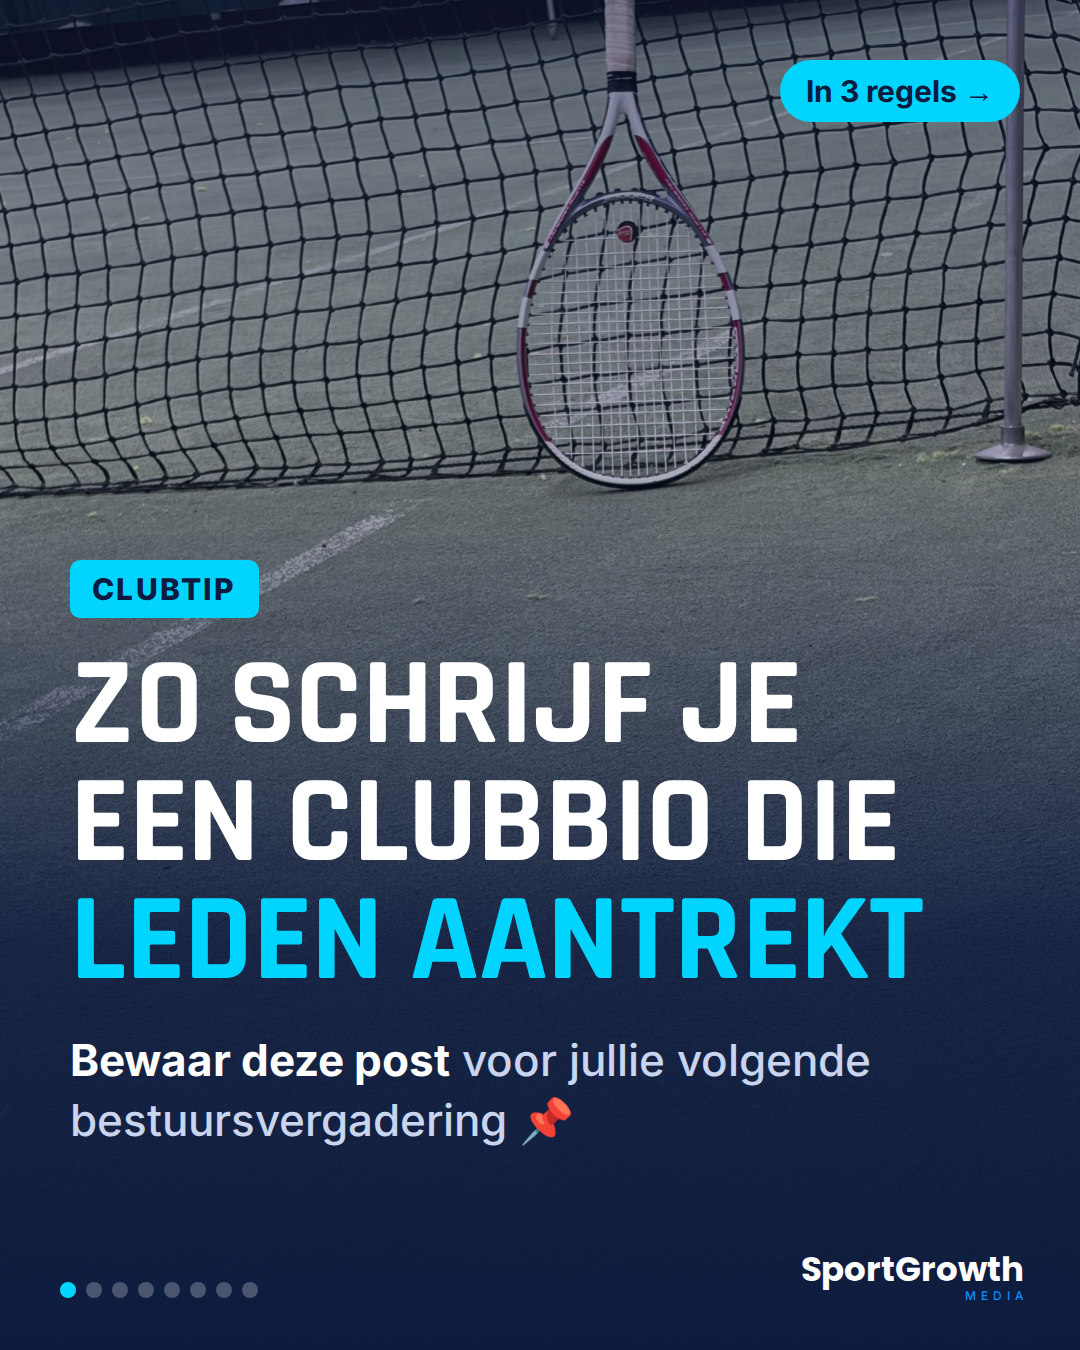
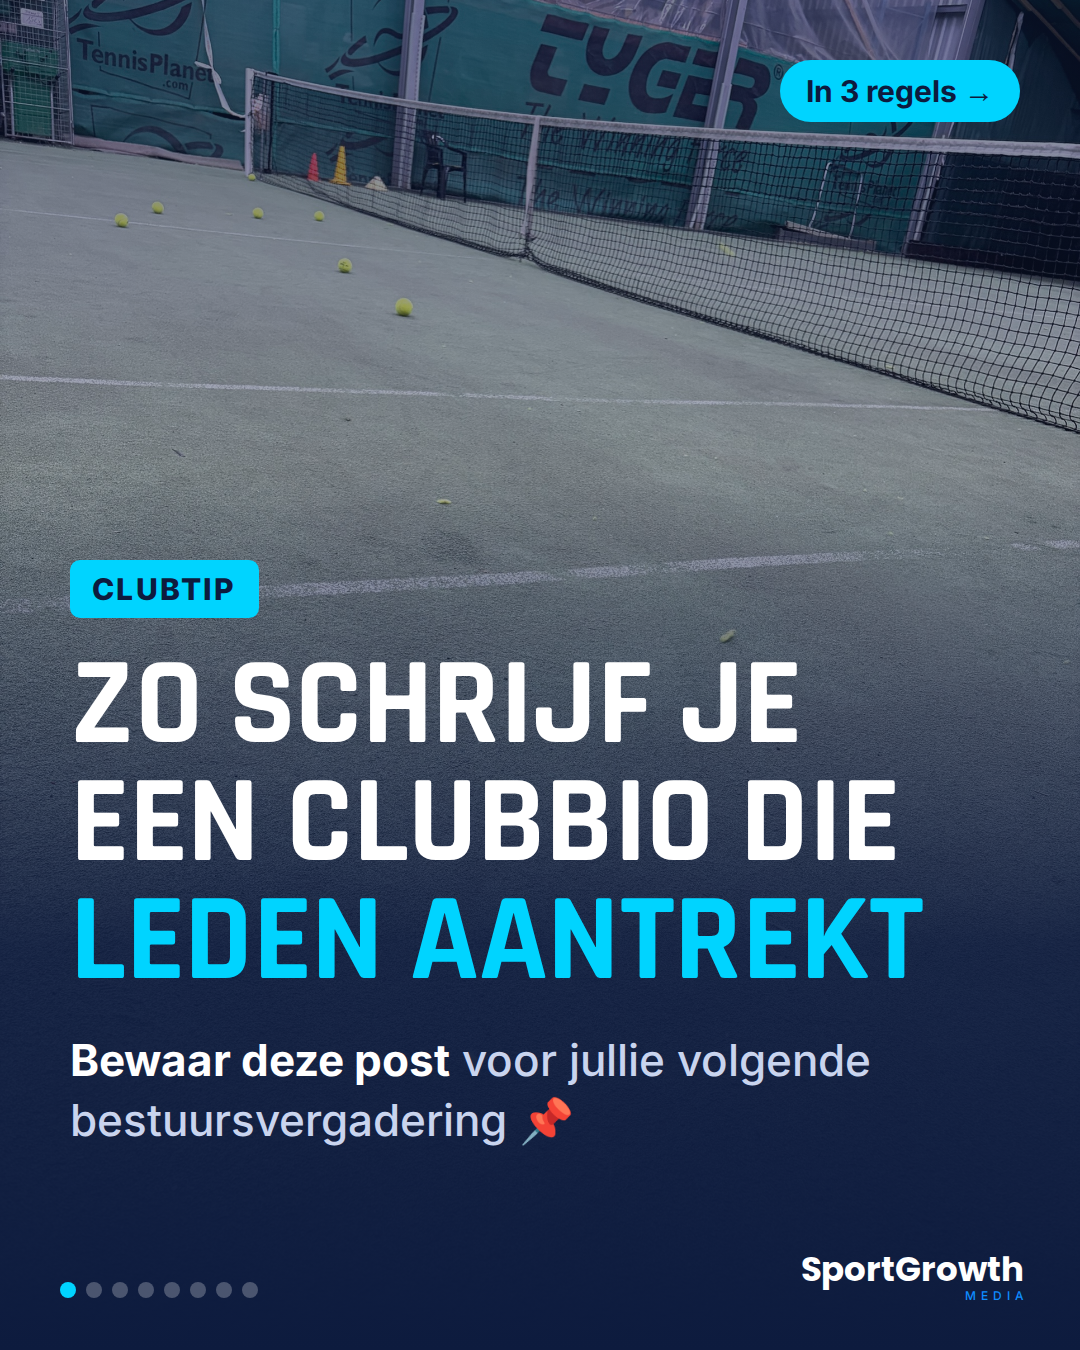
Carrousel clubbio: andere coverfoto (niet dezelfde als reel 1)
Claude-Session: https://claude.ai/code/session_01QkSWZzWLTduRQtPp2zathG

Changed region(s): [[0.0, 0.0, 1.0, 0.4667], [0.1222, 0.4667, 0.1833, 0.4978], [0.0306, 0.4978, 0.0917, 0.5289]]

diff --git a/instagram/carrousel-clubbio/build.js b/instagram/carrousel-clubbio/build.js
@@ -55,7 +55,7 @@ const slides = [];
 const card=(lab,labc,txt,border)=>`<div style="background:#fff;color:#111;border-radius:24px;padding:30px 34px;font:500 40px/1.4 In,'Noto Color Emoji';${border?'border:6px solid #00d4ff':''}"><div style="font:800 26px In;color:${labc};margin-bottom:8px">${lab}</div>${txt}</div>`;
 // 1 cover
 slides.push(page(1, `
-<div class="bg" style="background-image:url(file://${B}/tennis-racket-net.jpg);background-position:center 30%"></div><div class="dim"></div>
+<div class="bg" style="background-image:url(file://${B}/tennis-ballen-net.jpg);background-position:center 40%"></div><div class="dim"></div>
 <div class="swipe">In 3 regels →</div>
 <div style="position:absolute;left:70px;right:70px;top:560px;display:flex;flex-direction:column;gap:30px">
 <span class="tag" style="align-self:flex-start">CLUBTIP</span>
